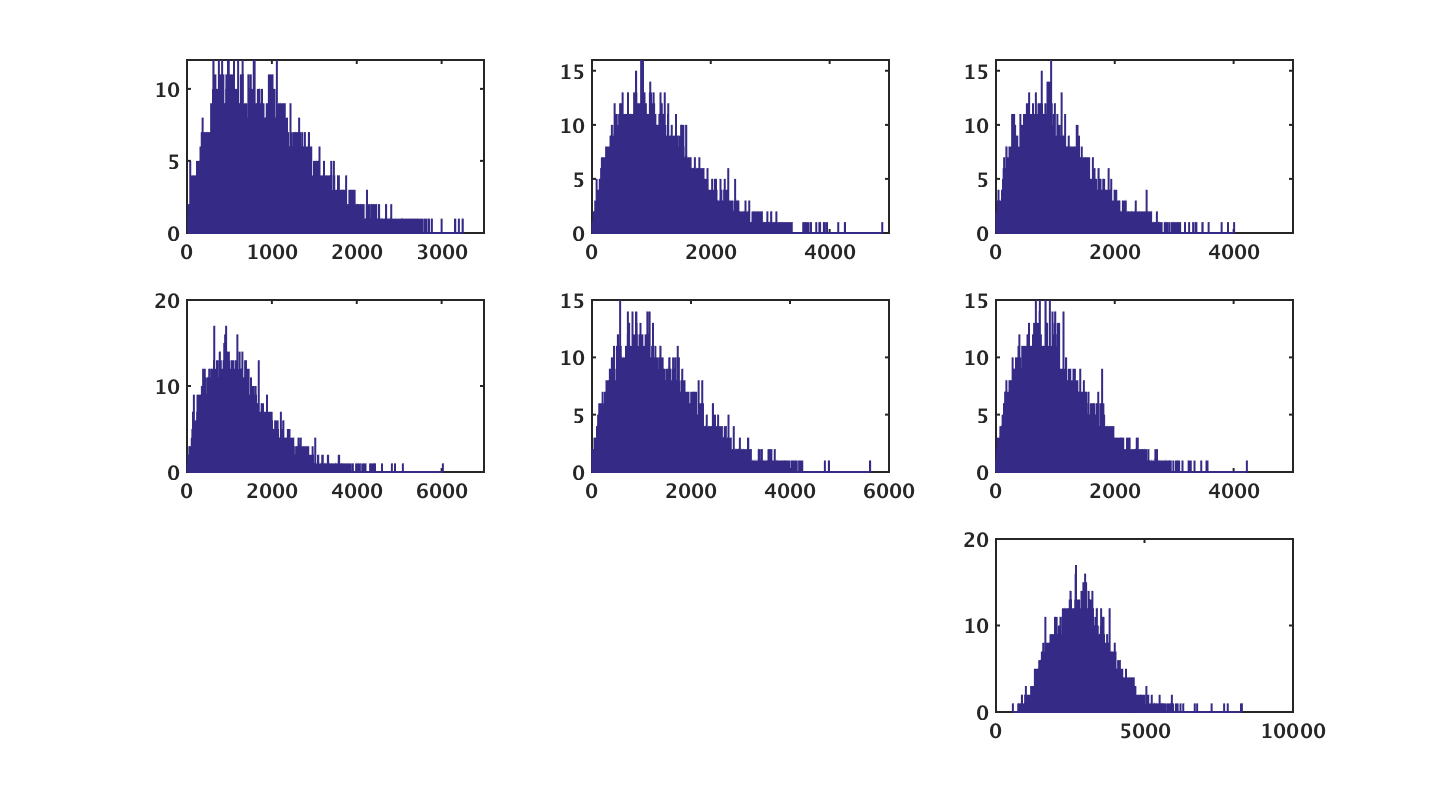
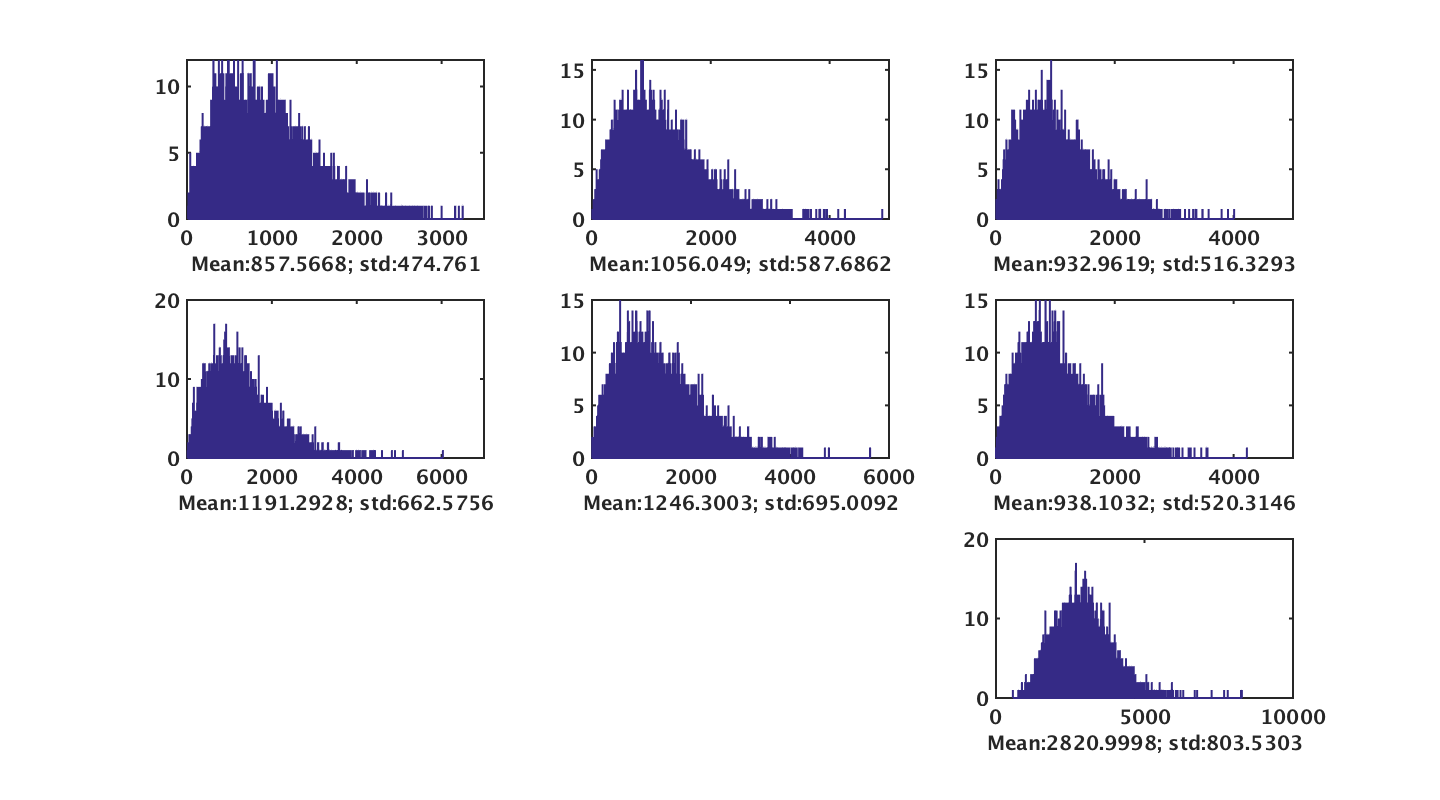
updated fig and code

diff --git a/homework/hw4/code/part2.m b/homework/hw4/code/part2.m
@@ -38,6 +38,8 @@ figure
 for i =1:6
     subplot(3, 3, i)
     hist(RSS(fift(:,:,1, i)), 10000)
+    xlabel(strcat('Mean:',num2str(mean(RSS(fift(:,:,1,i)))),'; std:',num2str(std(RSS(fift(:,:,1,i))))))
 end
 subplot(3,3,9)
 hist(magfitty, 10000)
+xlabel(strcat('Mean:',num2str(mean(magfitty)),'; std:',num2str(std(magfitty))))
